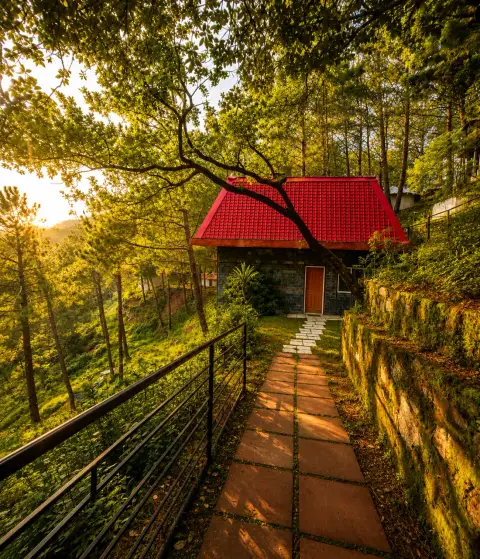
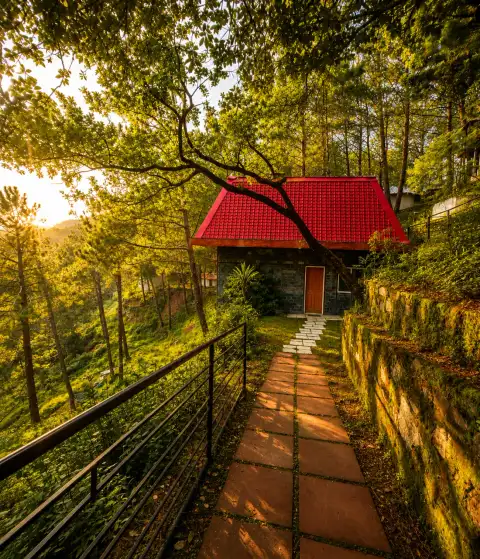
perf: lighter phone hero (max 750px, q56)

diff --git a/src/components/Hero.tsx b/src/components/Hero.tsx
@@ -12,7 +12,8 @@ const heroAlt = "Sunset over the Shimla hills seen through the pines at Pine Woo
 // Pre-sized files (scripts/gen-hero.mjs) served straight from the CDN, so the first screen
 // never waits on on-demand image resizing.
 const desktopSet = "/images/hero/valley-960.webp 960w, /images/hero/valley-1440.webp 1440w, /images/hero/valley-1920.webp 1920w";
-const mobileSet = "/images/hero/cottage-480.webp 480w, /images/hero/cottage-750.webp 750w, /images/hero/cottage-1080.webp 1080w";
+// Phones top out at 750px: under the dark overlay it looks identical and saves ~100KB.
+const mobileSet = "/images/hero/cottage-480.webp 480w, /images/hero/cottage-750.webp 750w";
 
 /** Landscape valley view on wide screens, the red-roof cottage at sunset on phones. */
 function HeroPicture() {
